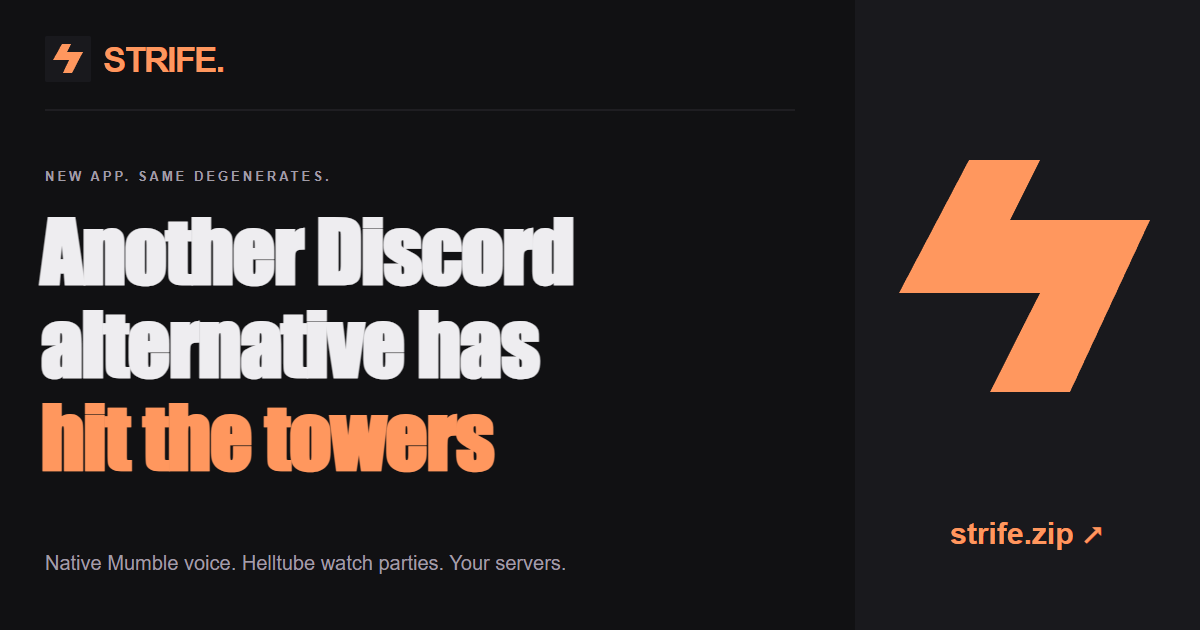
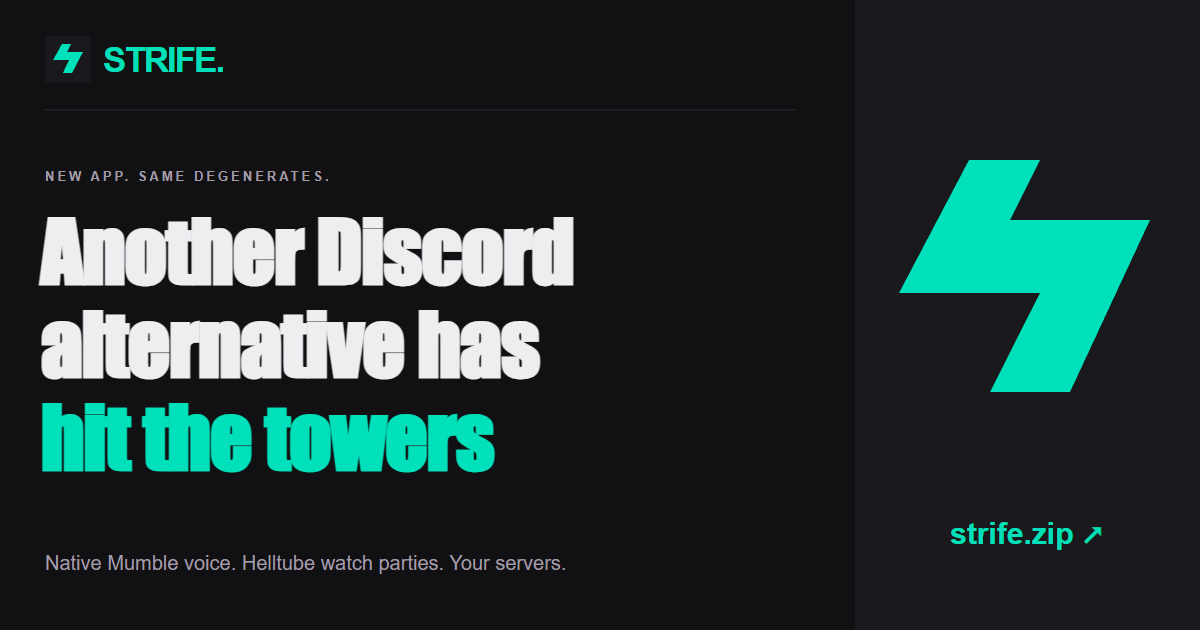
Match Strife teal branding and document source appearance updates

diff --git a/public/wiki/index.html b/public/wiki/index.html
@@ -11,7 +11,7 @@
       content="From choosing a VPS to your first Strife watch party: OS choices, Windows/Linux/macOS setup, Mumble, Helltube, DNS, firewalls, reverse proxies, TLS, backups, and recovery."
     />
     <link rel="canonical" href="https://strife.zip/wiki/" />
-    <link rel="icon" href="/assets/favicon.svg?v=orange-mark" />
+    <link rel="icon" href="/assets/favicon.svg?v=teal-mark" />
     <link rel="stylesheet" href="/style.css" />
     <link rel="stylesheet" href="/wiki/wiki.css" />
     <script type="module" src="/wiki/wiki.js"></script>
@@ -21,7 +21,7 @@
     <header class="site-header docs-header wrap">
       <a class="brand" href="/" aria-label="Strife home"
         ><img
-          src="/assets/mark.svg?v=orange-mark"
+          src="/assets/mark.svg?v=teal-mark"
           width="36"
           height="36"
           alt=""
@@ -1621,6 +1621,41 @@ tar -xzf <!-- release:filename:linux-x64 -->Strife-0.1.0-preview.3-linux-x64.tar
               retained image history. Remote image URLs and other rich HTML are
               not loaded in the chat pane. Reloading restores the retained
               attachments from the running voice session.
+            </p>
+            <h3 id="source-updates">Appearance and panel updates in source</h3>
+            <p>
+              The latest Strife source uses a teal default accent, matching this
+              website. These appearance and panel changes are not included in
+              the advertised
+              <!-- release:version -->0.1.0-preview.3<!-- /release -->
+              downloads; build the current source to use them.
+            </p>
+            <p>
+              Open <strong>Menu → Appearance</strong> to change the UI accent,
+              timestamp, username, and chat link colors, plus independent chat
+              and UI fonts. Colors accept hex codes or CSS names; the swatch
+              opens an HSV picker. Changes preview live.
+              <strong>Save appearance</strong> keeps them across launches;
+              <strong>Cancel</strong> or <strong>Esc</strong> restores the saved
+              appearance. <strong>Reset defaults</strong> previews the default
+              colors and fonts, including teal (<code>#00E0BB</code>); save to
+              keep the reset. Native Mumble dialogs and Helltube keep their own
+              appearance.
+            </p>
+            <p>
+              Font pickers search installed families and share a cached list.
+              The browser preview needs local font permission and offers
+              <strong>Retry font access</strong> after a denial. If its embedded
+              browser cannot show that prompt, use the desktop app, which reads
+              installed fonts directly. Chat messages now have timestamp
+              separators and distinct timestamp, username, and link colors.
+            </p>
+            <p>
+              User controls stay 240px tall when stacked above or below another
+              pane, and fill the available height when alone in a column. The
+              fixed height fits the controls at normal window sizes; very small
+              windows can still require scrolling. Drag the title or use its
+              position menu to rearrange panes.
             </p>
             <h3>Import your existing identity</h3>
             <p>

diff --git a/public/index.html b/public/index.html
@@ -23,14 +23,14 @@
     />
     <meta
       property="og:image"
-      content="https://strife.zip/assets/social-card.png"
+      content="https://strife.zip/assets/social-card.png?v=teal"
     />
     <meta property="og:image:width" content="1200" />
     <meta property="og:image:height" content="630" />
     <meta name="twitter:card" content="summary_large_image" />
     <link
       rel="icon"
-      href="/assets/favicon.svg?v=orange-mark"
+      href="/assets/favicon.svg?v=teal-mark"
       type="image/svg+xml"
     />
     <link
@@ -48,7 +48,7 @@
     <header class="site-header wrap">
       <a class="brand" href="/" aria-label="Strife home"
         ><img
-          src="/assets/mark.svg?v=orange-mark"
+          src="/assets/mark.svg?v=teal-mark"
           width="36"
           height="36"
           alt=""
@@ -77,7 +77,7 @@
           <h1 id="headline">
             Another Discord<br />
             alternative has<br />
-            <span class="orange-type">hit the towers</span>
+            <span class="accent-type">hit the towers</span>
           </h1>
           <p class="hero-description">
             Voice chat. Bad movies. Excellent company.<br />Strife brings Mumble
@@ -326,6 +326,12 @@
           <p>
             An early build for early adopters.<br />Occasional rough edges.
             Extremely intentional attitude.
+          </p>
+          <p>
+            The teal branding matches the latest Strife source. Appearance
+            settings and the updated user controls sizing are source-only; they
+            are not yet included in these downloads.
+            <a href="/wiki/#source-updates">See what's changed.</a>
           </p>
           <a class="text-link" href="https://github.com/M-ax/strife/issues"
             >Found something broken? Join the club.
@@ -622,7 +628,7 @@
     <footer class="site-footer wrap">
       <a class="brand" href="/" aria-label="Strife home"
         ><img
-          src="/assets/mark.svg?v=orange-mark"
+          src="/assets/mark.svg?v=teal-mark"
           width="29"
           height="29"
           alt=""

diff --git a/public/scripts/index.html b/public/scripts/index.html
@@ -11,7 +11,7 @@
       content="Download Strife's Mumble bootstrap, pinned Helltube installer launcher, and server diagnostics. Copyable curl-to-bash commands and an exact account of what each script changes."
     />
     <link rel="canonical" href="https://strife.zip/scripts/" />
-    <link rel="icon" href="/assets/favicon.svg?v=orange-mark" />
+    <link rel="icon" href="/assets/favicon.svg?v=teal-mark" />
     <link rel="stylesheet" href="/style.css" />
     <link rel="stylesheet" href="/wiki/wiki.css" />
     <script type="module" src="/wiki/wiki.js"></script>
@@ -21,7 +21,7 @@
     <header class="site-header docs-header wrap">
       <a class="brand" href="/" aria-label="Strife home"
         ><img
-          src="/assets/mark.svg?v=orange-mark"
+          src="/assets/mark.svg?v=teal-mark"
           width="36"
           height="36"
           alt=""

diff --git a/public/style.css b/public/style.css
@@ -29,10 +29,10 @@
   --panel-raised: #222226;
   --text: #eeedf0;
   --muted: #a19da7;
-  --accent: #ff975e;
-  --accent-light: #ffb389;
-  --accent-dim: #32231f;
-  --accent-ink: #23140e;
+  --accent: #00e0bb;
+  --accent-light: #66ecd6;
+  --accent-dim: #00e0bb22;
+  --accent-ink: #101115;
   --green: #9ebdaa;
   --line: #2c2b31;
   --shadow: #08080a;
@@ -240,7 +240,7 @@ button[hidden],
   line-height: 0.98;
   margin-top: 24px;
 }
-.orange-type {
+.accent-type {
   color: var(--accent);
 }
 .hero-description {
@@ -287,7 +287,7 @@ button[hidden],
   content: "";
   position: absolute;
   inset: 0;
-  background-image: radial-gradient(#ff975e15 0.7px, transparent 0.7px);
+  background-image: radial-gradient(#00e0bb15 0.7px, transparent 0.7px);
   background-size: 7px 7px;
   z-index: -1;
 }

diff --git a/public/404.html b/public/404.html
@@ -7,14 +7,14 @@
     <meta name="color-scheme" content="dark" />
     <meta name="robots" content="noindex" />
     <title>404 — Wrong channel. | Strife</title>
-    <link rel="icon" href="/assets/favicon.svg?v=orange-mark" />
+    <link rel="icon" href="/assets/favicon.svg?v=teal-mark" />
     <link rel="stylesheet" href="/style.css" />
   </head>
   <body>
     <main class="error-page wrap">
       <a class="brand" href="/"
         ><img
-          src="/assets/mark.svg?v=orange-mark"
+          src="/assets/mark.svg?v=teal-mark"
           width="36"
           height="36"
           alt=""

diff --git a/README.md b/README.md
@@ -24,6 +24,8 @@ On Linux/macOS replace the mount argument with `"type=bind,source=$PWD,target=/w
 
 The site uses static HTML/CSS, self-hosted fonts, and a small JavaScript enhancement. The Worker streams Windows, Linux, and macOS downloads from the private R2 bucket **strife-releases**, bound as **RELEASES** in wrangler.jsonc. No production credentials are committed.
 
+The website theme, logos, and social card use Strife teal (`#00E0BB`), matching the current app source. The landing page and wiki distinguish source-only appearance settings, chat styling, and fixed user controls sizing from the advertised preview.3 downloads. This source documentation update does not change the release manifest, package filenames, source revision, platform requirements, or signing status.
+
 ## Local development
 
 Use Node.js 24 or newer:
